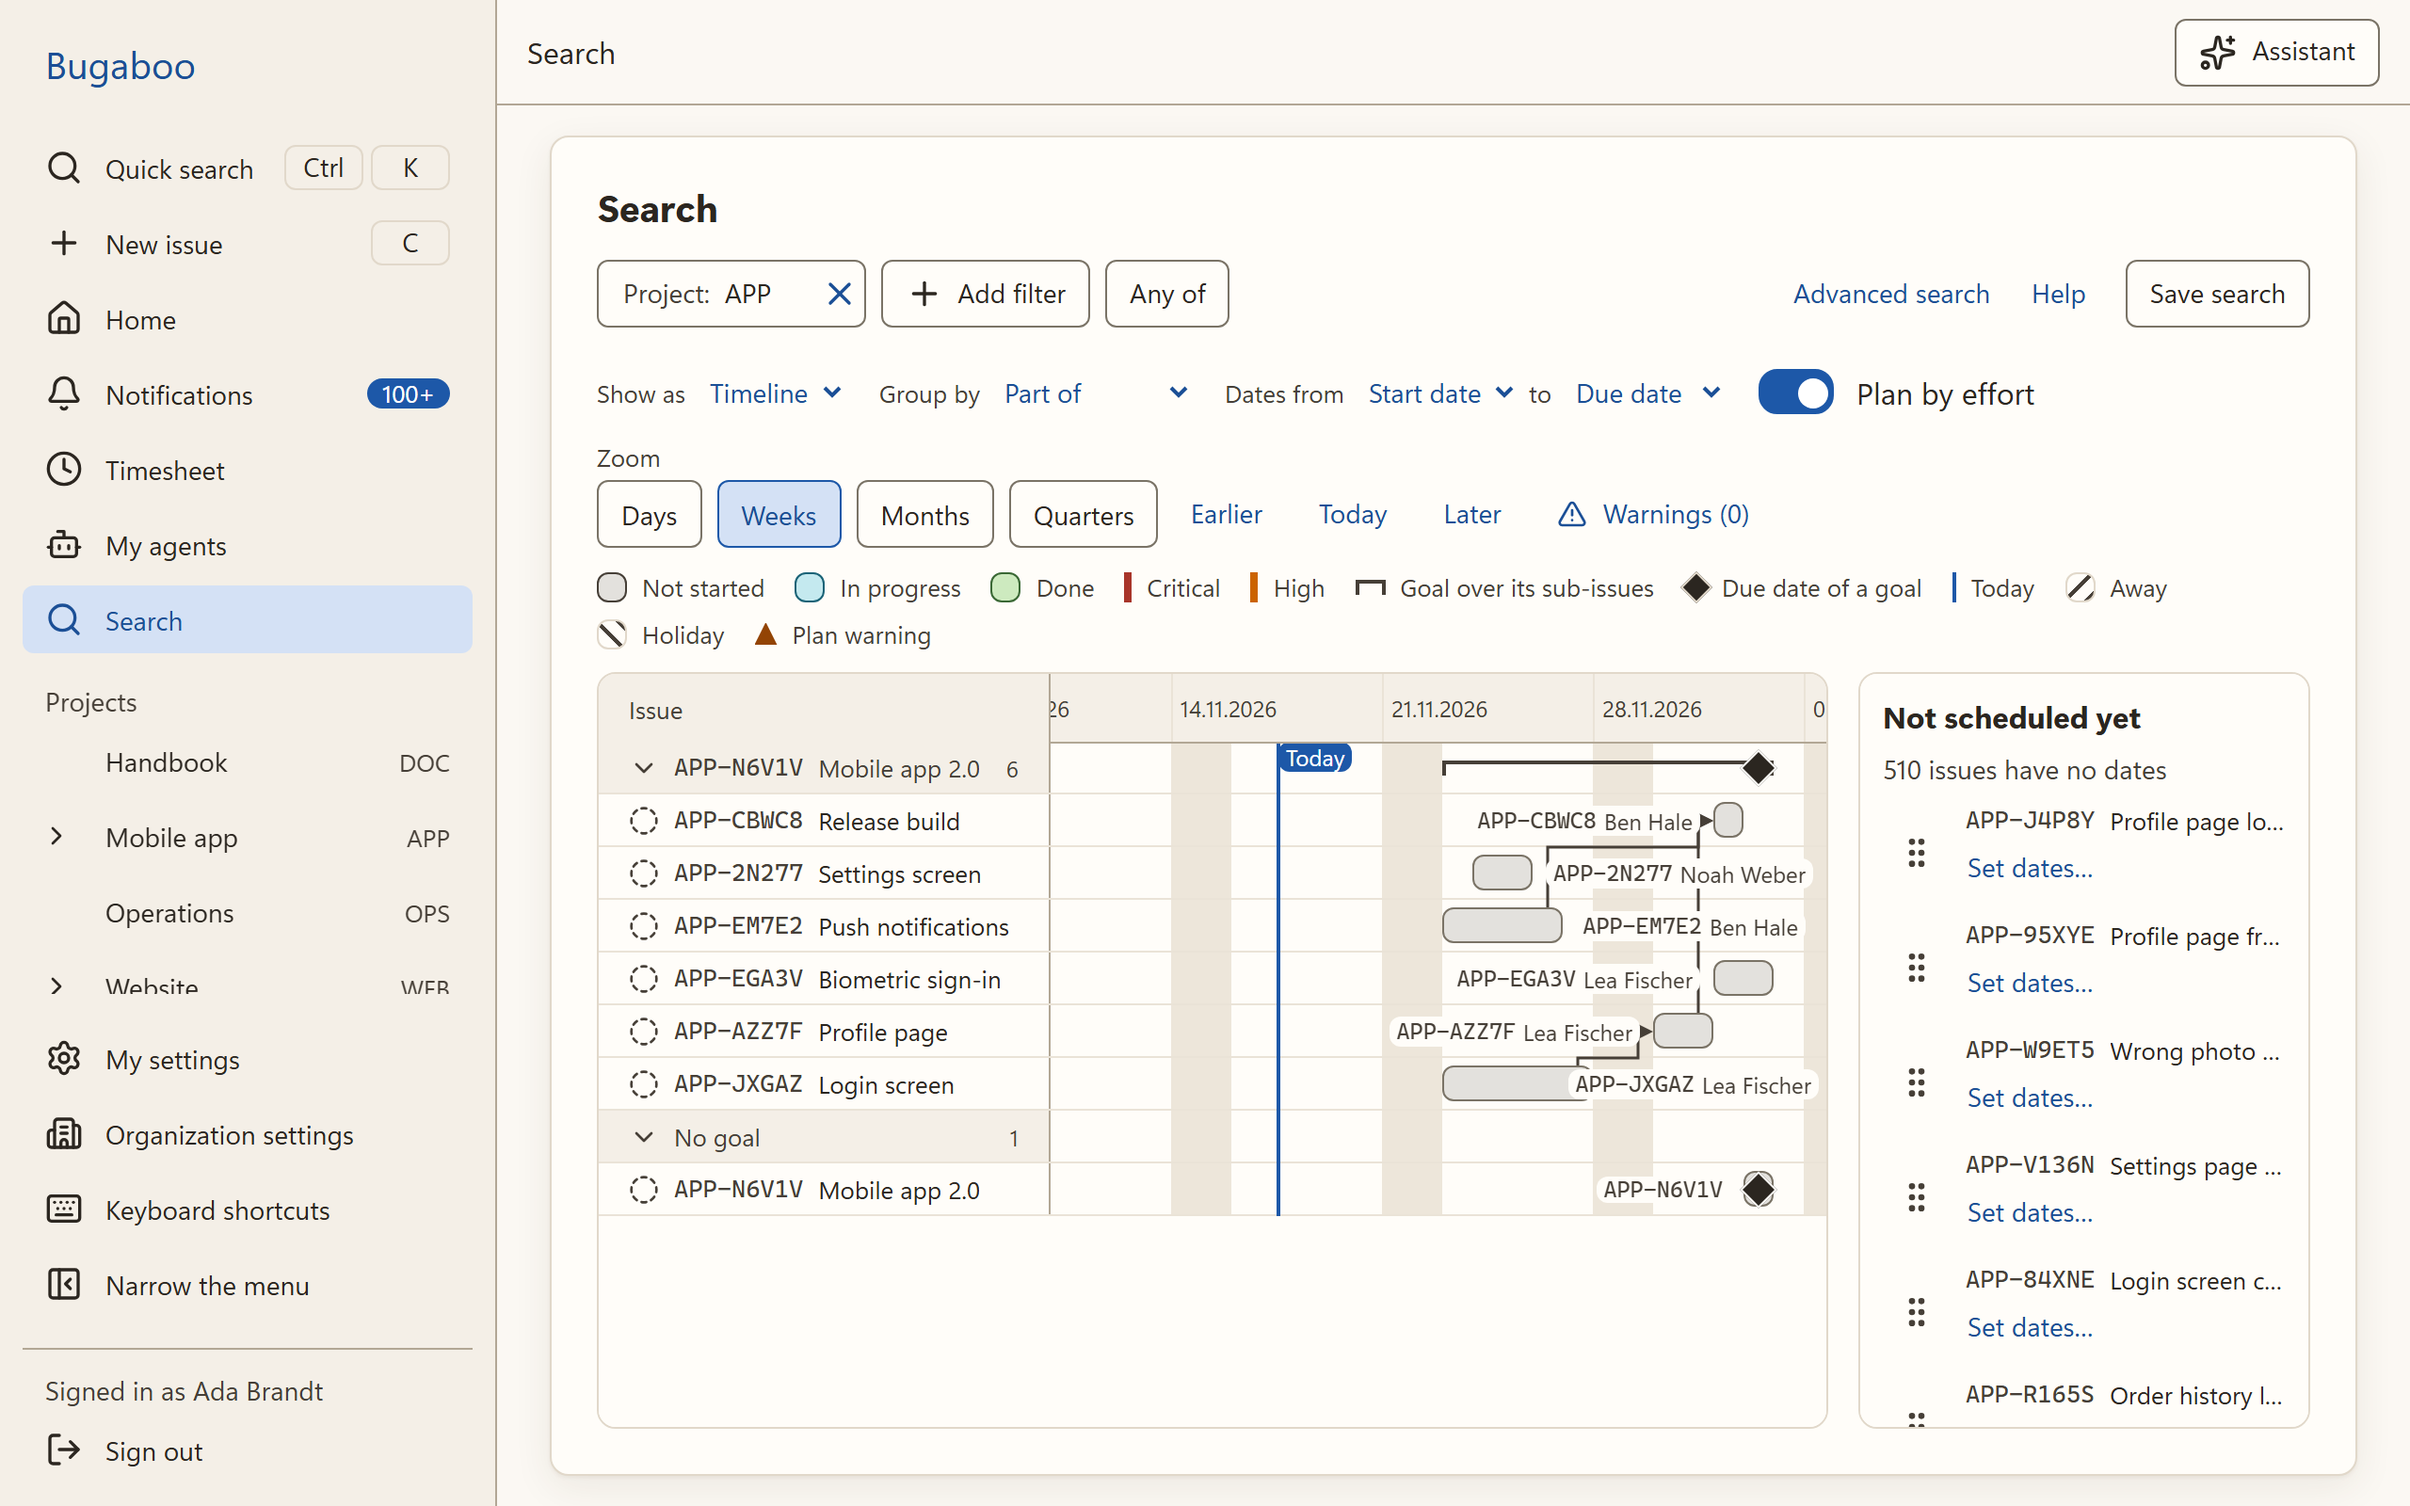
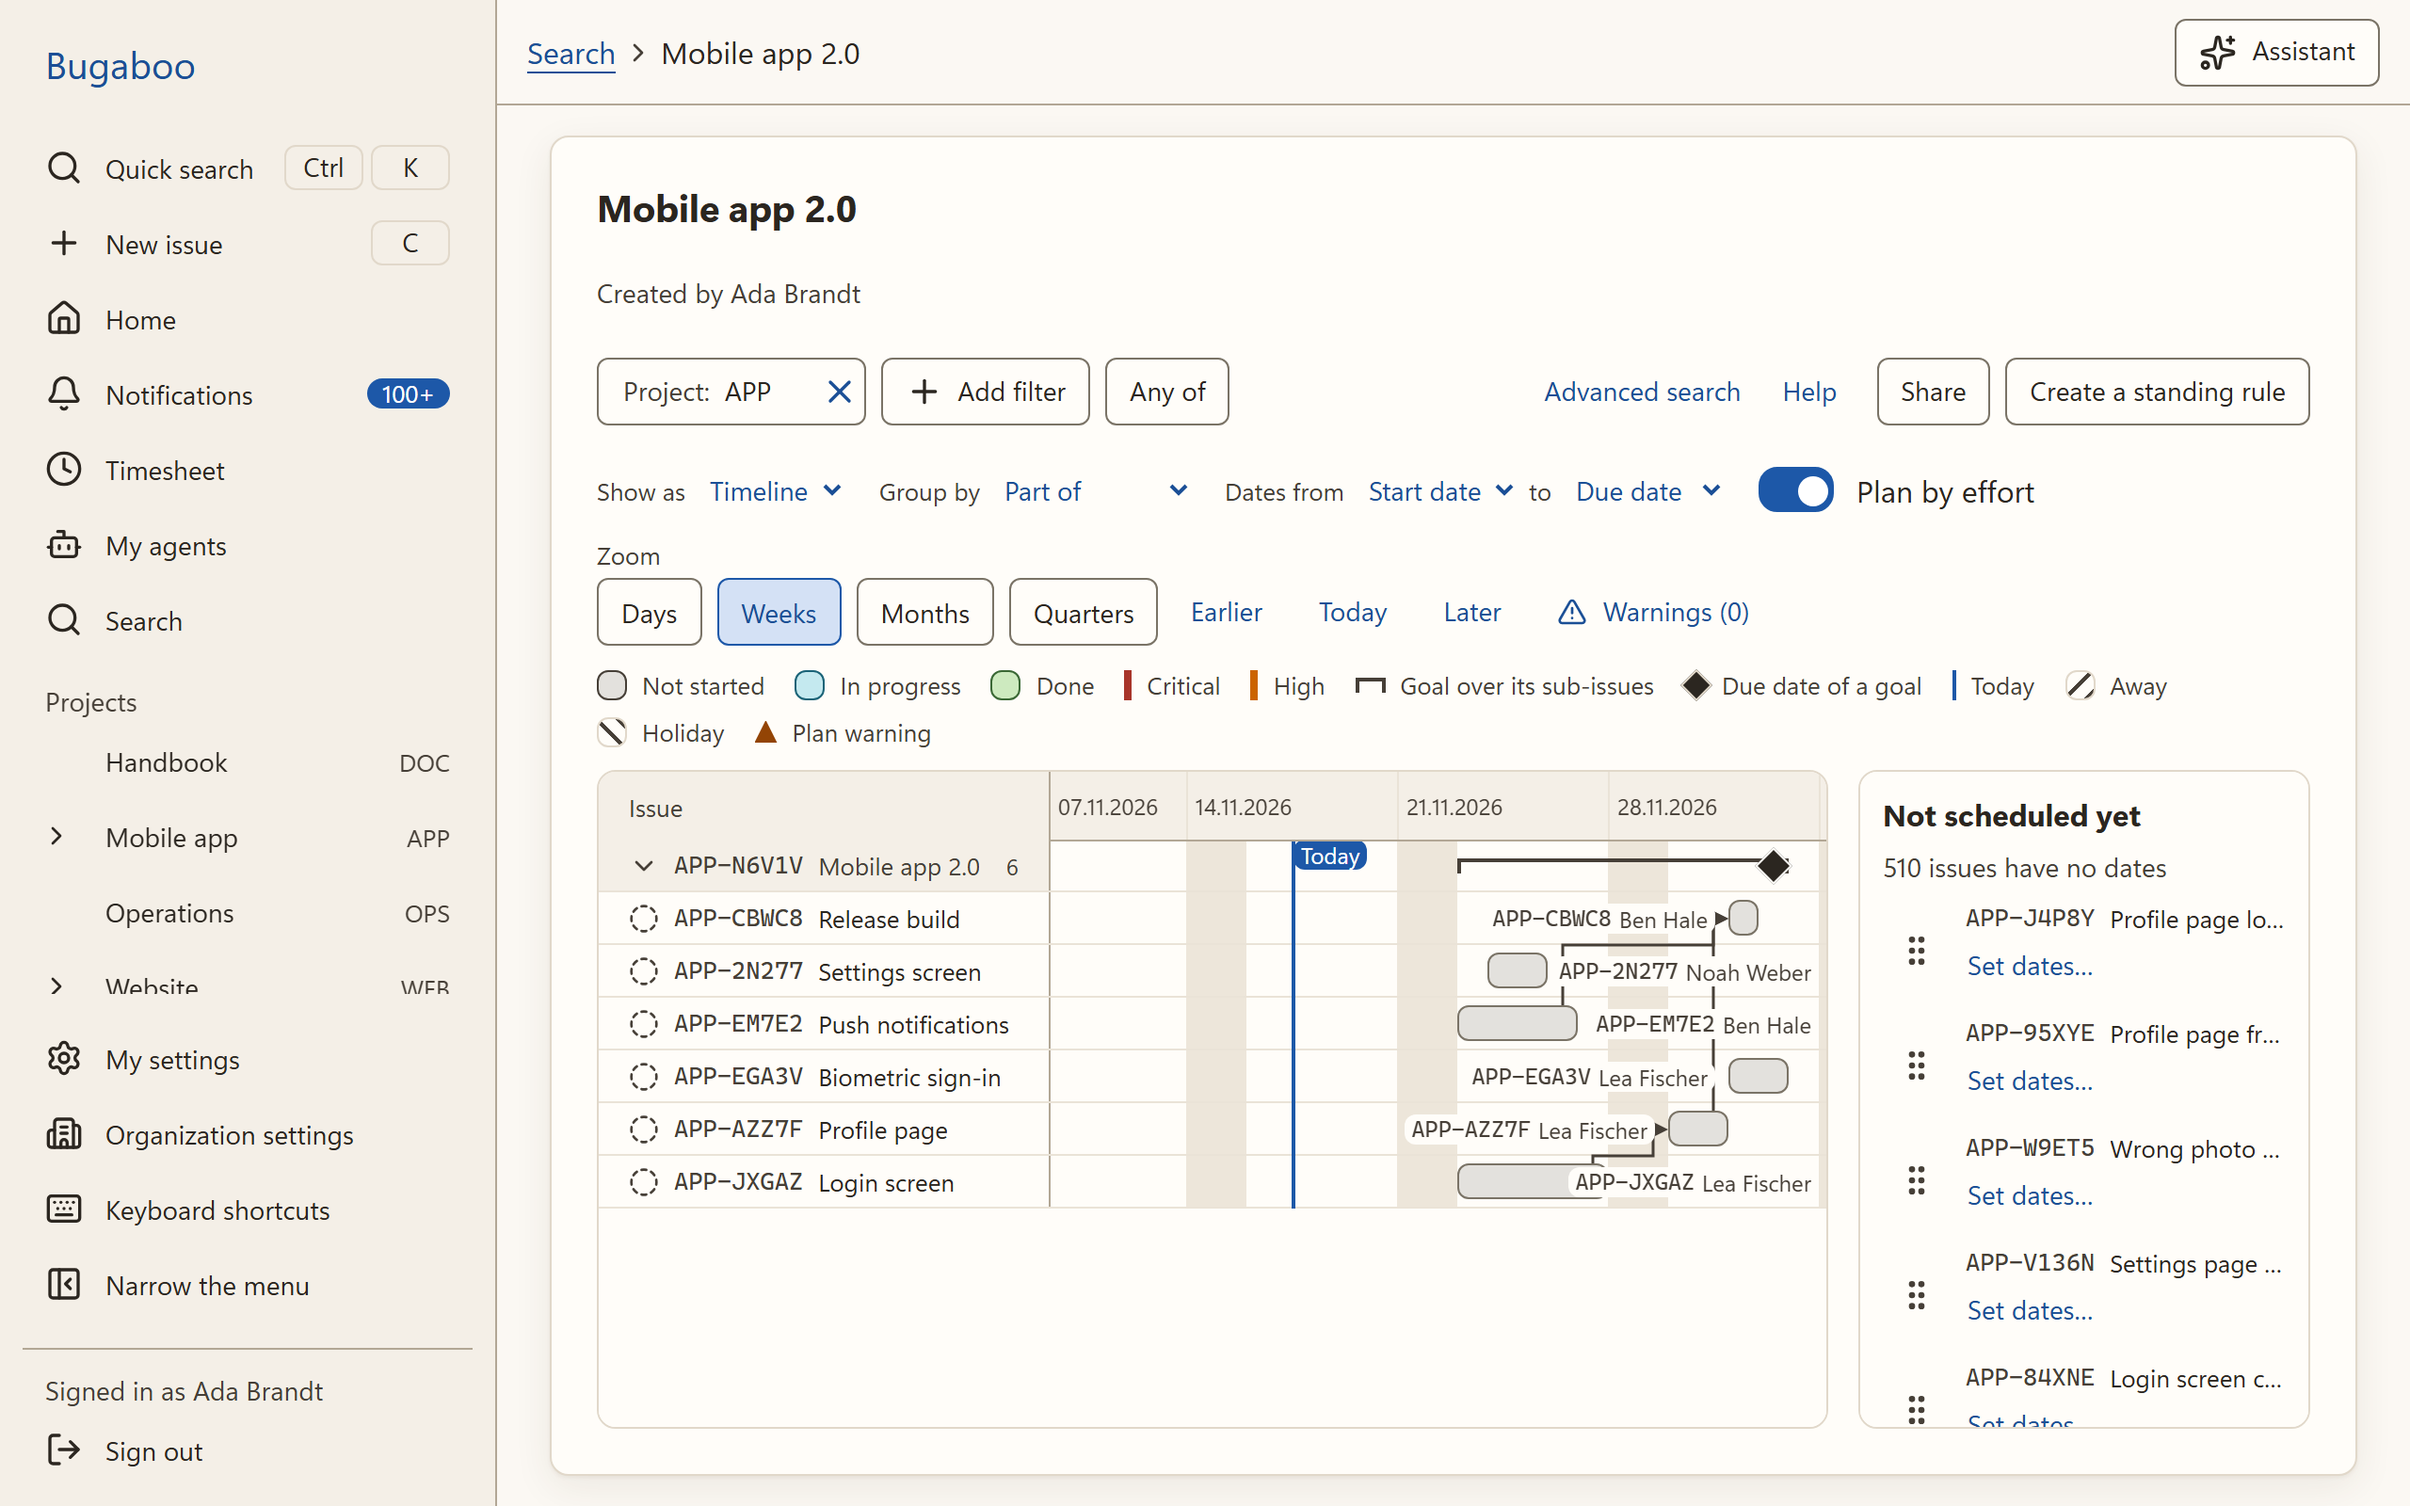
docs(readme): take the timeline picture again from a saved search
The picture now shows the plan as a saved search named after its goal,
so the page is called Mobile app 2.0 and not Search, with the view kept
in it. It is taken again after the goal stopped showing a second time
under No goal and the names of the scale stopped being cut, and the
chart is scrolled so that no name of a unit is cut at its end.

diff --git a/web/app/e2e/readme-media-timeline.spec.ts b/web/app/e2e/readme-media-timeline.spec.ts
@@ -1,10 +1,20 @@
 import type { Page } from "@playwright/test";
 
+import { dataOf } from "@bugaboo/api-client";
+import { t } from "@bugaboo/messages";
+
 import { signInThroughApi } from "./support/accounts.ts";
-import { adaOfTheSample, openPlan, withoutATimer } from "./support/demo-m8-common.ts";
-import { test } from "./support/fixtures.ts";
+import {
+  adaOfTheSample,
+  openPlanAt,
+  plan,
+  planSearch,
+  withoutATimer,
+} from "./support/demo-m8-common.ts";
+import { expect, test } from "./support/fixtures.ts";
 import { mediaFolder, samplePage, shootPicture } from "./support/readme-media.ts";
 import { showReadmeTheme } from "./support/readme-organization.ts";
+import { savedSearchAddress } from "../src/shared/paths.ts";
 
 // The picture of the timeline on the front page (README.md): the plan of *Mobile app 2.0* of the sample organization,
 // grouped by goal and planned by effort, in the theme of the other pictures. Quillmoor Cycle Works has no plan, so this
@@ -12,7 +22,8 @@ import { showReadmeTheme } from "./support/readme-organization.ts";
 
 /**
  * Scrolls the chart so that today stands near the start of its days: the plan lies after today, and so its bars and
- * the due date of the goal show.
+ * the due date of the goal show. A unit that would start so near the end of the box that its name is cut there is left
+ * just out of sight.
  */
 async function todayAtTheStart(page: Page): Promise<void> {
   await page.locator("[data-part='timeline-scroll']").evaluate((box) => {
@@ -21,6 +32,13 @@ async function todayAtTheStart(page: Page): Promise<void> {
     const today = place("timeline-today")?.left ?? 0;
     const names = place("timeline-head.corner");
     box.scrollBy({ left: today - (names?.right ?? 0) - (names?.width ?? 0) / 2 });
+    const end = box.getBoundingClientRect().left + box.clientLeft + box.clientWidth;
+    for (const name of box.querySelectorAll("[data-part='day-scale.name']")) {
+      const shown = name.getBoundingClientRect();
+      if (shown.left < end && shown.right > end) {
+        box.scrollBy({ left: shown.left - end - 1 });
+      }
+    }
   });
 }
 
@@ -32,9 +50,18 @@ test("a picture of the timeline: a goal and its issues as bars", async ({ browse
   await withoutATimer(server, ada);
   const session = await signInThroughApi(server, ada);
   await showReadmeTheme(session);
+  // A saved search of the plan, so the page is called by its name, not *Search*.
+  const saved = dataOf(
+    await session.client.POST("/api/v1/saved-searches", {
+      body: { name: plan.goal.title, search_text: planSearch },
+    }),
+  ).id;
   await session.dispose();
   const page = await samplePage(browser, server, ada);
-  await openPlan(page, true);
+  await openPlanAt(page, savedSearchAddress(saved), true);
+  // The view of the timeline is kept with the saved search, as a person who plans with it does.
+  await page.getByRole("button", { name: t("search.save-changes"), exact: true }).click();
+  await expect(page.getByText(t("search.changed-not-saved"))).toBeHidden();
   await todayAtTheStart(page);
   await page.waitForLoadState("networkidle");
   await shootPicture(page, "timeline");

diff --git a/web/app/e2e/support/demo-m8-common.ts b/web/app/e2e/support/demo-m8-common.ts
@@ -70,10 +70,21 @@ export async function keyOf(session: ApiSession, title: string): Promise<string>
 /** The part of the address of a timeline grouped by goal: the goal heads its issues (UX §4.7, M8-Q12). */
 const BY_GOAL = "&group=parent";
 
+/** The search of the issues of the project of the plan, as a person types it. */
+export const planSearch = `project is ${plan.project}`;
+
 /** Opens the timeline of the project of the plan grouped by goal, with or without *Plan by effort*. */
-export async function openPlan(page: Page, byEffort: boolean): Promise<void> {
-  const search = encodeURIComponent(`project is ${plan.project}`);
-  await page.goto(`/search?s=${search}&show=timeline${BY_GOAL}`);
+export function openPlan(page: Page, byEffort: boolean): Promise<void> {
+  return openPlanAt(page, `/search?s=${encodeURIComponent(planSearch)}`, byEffort);
+}
+
+/**
+ * Opens a page of the search of the plan (the page of a search, or a saved search of it) as its timeline grouped by
+ * goal, with or without *Plan by effort*.
+ */
+export async function openPlanAt(page: Page, address: string, byEffort: boolean): Promise<void> {
+  const more = address.includes("?") ? "&" : "?";
+  await page.goto(`${address}${more}show=timeline${BY_GOAL}`);
   // A phone shows the plan as a grouped list; it has the switch of Plan by effort as well.
   await expect(chart(page).or(phoneList(page))).toBeVisible();
   const toggle = page.getByRole("switch", { name: t("timeline.plan-by-effort"), exact: true });
